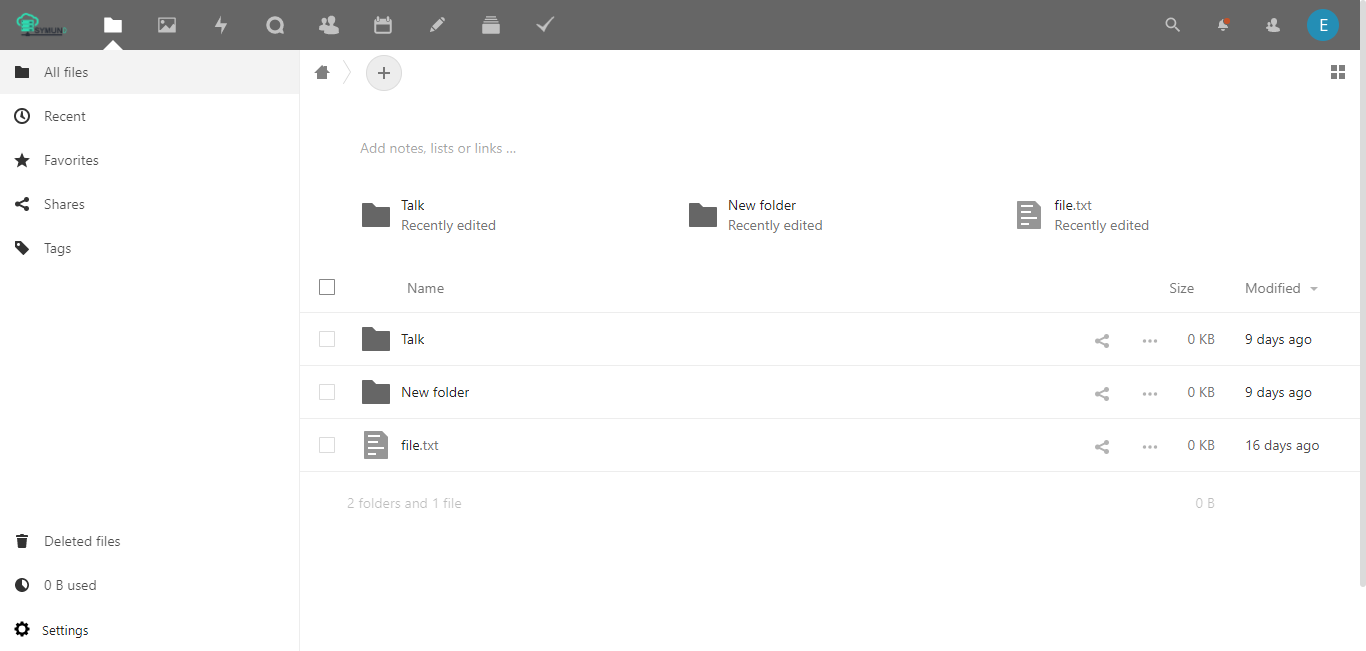
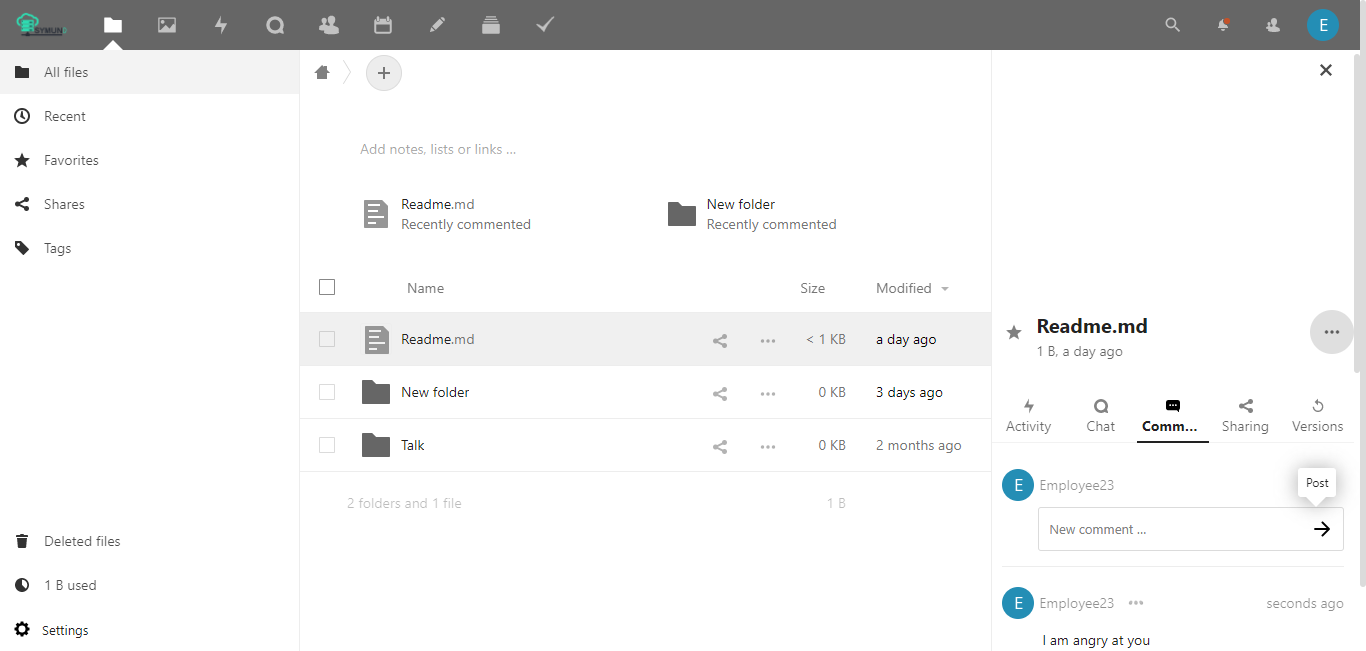
All work is done

diff --git a/target/default-html-reports/report.js b/target/default-html-reports/report.js
@@ -63,7 +63,7 @@ formatter.result({
   "status": "passed"
 });
 formatter.scenario({
-  "name": "A comment box should be displayed",
+  "name": "the user should be able to comment",
   "description": "",
   "keyword": "Scenario",
   "tags": [
@@ -73,41 +73,41 @@ formatter.scenario({
   ]
 });
 formatter.step({
-  "name": "the user clicks dots for comments",
+  "name": "the user enters comment \"I am angry at you\"",
   "keyword": "Given "
 });
 formatter.match({
-  "location": "com.symund.step_definitions.CommentStepDefs.theUserClicksDotsForComments()"
+  "location": "com.symund.step_definitions.CommentStepDefs.theUserEntersComment(java.lang.String)"
 });
 formatter.result({
   "status": "passed"
 });
 formatter.step({
-  "name": "the user clicks Details",
+  "name": "the user clicks comment arrow button",
   "keyword": "And "
 });
 formatter.match({
-  "location": "com.symund.step_definitions.DetailsFileFolder_StepDefs.the_user_clicks_Details()"
+  "location": "com.symund.step_definitions.CommentStepDefs.theUserClicksCommentArrowButton()"
 });
 formatter.result({
   "status": "passed"
 });
 formatter.step({
-  "name": "the user clicks comments",
+  "name": "the user\u0027s username should be seen",
   "keyword": "And "
 });
 formatter.match({
-  "location": "com.symund.step_definitions.CommentStepDefs.theUserClicksComments()"
+  "location": "com.symund.step_definitions.CommentStepDefs.theUserSUsernameShouldBeSeen()"
 });
 formatter.result({
   "status": "passed"
 });
 formatter.step({
-  "name": "the comments box should be displayed",
-  "keyword": "Then "
+  "name": "the box is emptied for new comment",
+  "keyword": "And "
 });
 formatter.match({
-  "location": "com.symund.step_definitions.CommentStepDefs.theCommentsBoxShouldBeDisplayed()"
+  "location": "com.symund.step_definitions.CommentStepDefs.theBoxIsEmptiedForNewComment()"
 });
 formatter.result({
   "status": "passed"
@@ -174,7 +174,7 @@ formatter.result({
   "status": "passed"
 });
 formatter.scenario({
-  "name": "the user should be able to comment",
+  "name": "the user should be edit and delete the comment",
   "description": "",
   "keyword": "Scenario",
   "tags": [
@@ -184,18 +184,38 @@ formatter.scenario({
   ]
 });
 formatter.step({
-  "name": "the user enters comment \"I love you \"",
+  "name": "the user clicks dots next to user name",
   "keyword": "Given "
 });
 formatter.match({
-  "location": "com.symund.step_definitions.CommentStepDefs.theUserEntersComment(java.lang.String)"
+  "location": "com.symund.step_definitions.CommentStepDefs.the_user_clicks_dots_next_to_user_name()"
+});
+formatter.result({
+  "status": "passed"
+});
+formatter.step({
+  "name": "the user clicks Edit comment",
+  "keyword": "And "
+});
+formatter.match({
+  "location": "com.symund.step_definitions.CommentStepDefs.the_user_clicks_Edit_comment()"
+});
+formatter.result({
+  "status": "passed"
+});
+formatter.step({
+  "name": "the user deletes the old comment and writes \"i like you actually\"",
+  "keyword": "And "
+});
+formatter.match({
+  "location": "com.symund.step_definitions.CommentStepDefs.the_user_deletes_the_old_comment_and_writes_new_one(java.lang.String)"
 });
 formatter.result({
   "status": "passed"
 });
 formatter.step({
   "name": "the user clicks comment arrow button",
-  "keyword": "And "
+  "keyword": "Then "
 });
 formatter.match({
   "location": "com.symund.step_definitions.CommentStepDefs.theUserClicksCommentArrowButton()"
@@ -204,21 +224,41 @@ formatter.result({
   "status": "passed"
 });
 formatter.step({
-  "name": "the user\u0027s username should be seen",
-  "keyword": "And "
+  "name": "verify that the comment is edited",
+  "keyword": "Then "
 });
 formatter.match({
-  "location": "com.symund.step_definitions.CommentStepDefs.theUserSUsernameShouldBeSeen()"
+  "location": "com.symund.step_definitions.CommentStepDefs.verify_that_the_comment_is_edited()"
 });
 formatter.result({
   "status": "passed"
 });
 formatter.step({
-  "name": "the box is emptied for new comment",
+  "name": "the user clicks dots next to user name",
+  "keyword": "Then "
+});
+formatter.match({
+  "location": "com.symund.step_definitions.CommentStepDefs.the_user_clicks_dots_next_to_user_name()"
+});
+formatter.result({
+  "status": "passed"
+});
+formatter.step({
+  "name": "the user clicks Delete comment button",
   "keyword": "And "
 });
 formatter.match({
-  "location": "com.symund.step_definitions.CommentStepDefs.theBoxIsEmptiedForNewComment()"
+  "location": "com.symund.step_definitions.CommentStepDefs.the_user_clicks_Delete_comment_button()"
+});
+formatter.result({
+  "status": "passed"
+});
+formatter.step({
+  "name": "verify that the comment is deleted",
+  "keyword": "And "
+});
+formatter.match({
+  "location": "com.symund.step_definitions.CommentStepDefs.verifyThatTheCommentIsDeleted()"
 });
 formatter.result({
   "status": "passed"

diff --git a/src/test/java/com/symund/step_definitions/CommentStepDefs.java b/src/test/java/com/symund/step_definitions/CommentStepDefs.java
@@ -2,14 +2,17 @@ package com.symund.step_definitions;
 
 import com.symund.pages.CommentsPage;
 import com.symund.utilities.BrowserUtils;
+import com.symund.utilities.Driver;
 import io.cucumber.java.en.And;
 import io.cucumber.java.en.Given;
 import io.cucumber.java.en.Then;
-import io.cucumber.java.en.When;
 import org.junit.Assert;
+import org.openqa.selenium.JavascriptExecutor;
 
 public class CommentStepDefs {
-    CommentsPage commentsPage=new CommentsPage();
+    CommentsPage commentsPage = new CommentsPage();
+    public static String commentInput;
+
     @Given("the user clicks dots for comments")
     public void theUserClicksDotsForComments() {
         BrowserUtils.waitFor(2);
@@ -27,8 +30,9 @@ public class CommentStepDefs {
     }
 
     @Given("the user enters comment {string}")
-    public void theUserEntersComment(String String) {
-        commentsPage.CommentBox.sendKeys(String);
+    public void theUserEntersComment(String comment) {
+        commentInput=comment;
+        commentsPage.CommentBox.sendKeys(comment);
     }
 
     @And("the user clicks comment arrow button")
@@ -38,7 +42,7 @@ public class CommentStepDefs {
 
     @And("the user's username should be seen")
     public void theUserSUsernameShouldBeSeen() {
-        Assert.assertEquals(commentsPage.ExpectedUsername.getText(),commentsPage.ActualUsername.getText());
+        Assert.assertEquals(commentsPage.ExpectedUsername.getText(), commentsPage.ActualUsername.getText());
         System.out.println(commentsPage.ExpectedUsername.getText());
         System.out.println(commentsPage.ActualUsername.getText());
 
@@ -48,7 +52,53 @@ public class CommentStepDefs {
 
     @And("the box is emptied for new comment")
     public void theBoxIsEmptiedForNewComment() {
-        String emptyBox= commentsPage.CommentBox.getAttribute("data-placeholder");
+        String emptyBox = commentsPage.CommentBox.getAttribute("data-placeholder");
         System.out.println(emptyBox);
     }
+
+    @Given("the user clicks Edit comment")
+    public void the_user_clicks_Edit_comment() {
+        commentsPage.EditBtn.click();
+    }
+
+    @Given("the user deletes the old comment and writes {string}")
+    public void the_user_deletes_the_old_comment_and_writes_new_one(String newComment) throws InterruptedException {
+        System.out.println(commentsPage.CommentBoxEdit.getText());
+        commentsPage.CommentBoxEdit.clear();
+        commentsPage.CommentBoxEdit.sendKeys(newComment);
+        commentsPage.ArrowBtn1.click();
+        Thread.sleep(4000);
+    }
+
+    @Then("verify that the comment is edited")
+    public void verify_that_the_comment_is_edited() {
+
+        String actualText = commentsPage.newEdited.getAttribute("outerHTML");
+        System.out.println(actualText);
+        String result=actualText.split(">")[1].split("<")[0];
+        System.out.println(result);
+        System.out.println(commentInput);
+        Assert.assertNotEquals(commentInput,result);
+    }
+
+    @Then("the user clicks dots next to user name")
+    public void the_user_clicks_dots_next_to_user_name() {
+        commentsPage.dotsNextToUsername.click();
+
+    }
+
+    @Then("the user clicks Delete comment button")
+    public void the_user_clicks_Delete_comment_button() throws InterruptedException {
+        commentsPage.DeleteBtn.click();
+        Thread.sleep(2000);
+    }
+
+    @And("verify that the comment is deleted")
+    public void verifyThatTheCommentIsDeleted() {
+        String actualText = commentsPage.newEdited.getAttribute("outerHTML");
+        System.out.println(actualText);
+        String result=actualText.split(">")[1].split("<")[0];
+        Assert.assertNotEquals(commentInput,result);
+    }
+
 }

diff --git a/src/test/java/com/symund/pages/CommentsPage.java b/src/test/java/com/symund/pages/CommentsPage.java
@@ -20,4 +20,18 @@ public class CommentsPage {
     public WebElement ActualUsername;
     @FindBy(xpath = "(//div[.='Employee23'])[1]")
     public WebElement ExpectedUsername;
+    @FindBy(xpath = "(//li[@class='comment']//a[@class='action more icon icon-more has-tooltip'])[1]")
+    public WebElement dotsNextToUsername;
+    @FindBy(linkText = "Edit comment")
+    public WebElement EditBtn;
+    @FindBy(linkText = "Delete comment")
+    public WebElement DeleteBtn;
+    @FindBy(xpath = "(//div[@data-placeholder='New comment …'])[2]")
+    public WebElement CommentBoxEdit;
+    @FindBy(xpath = "(//div[@class='message'])[2]")
+    public WebElement EditedMessage;
+    @FindBy(xpath = "(//input[@type='submit'])[3]")
+    public WebElement ArrowBtn1;
+    @FindBy(xpath = "(//ul[@class='comments']//li//div[@class='message'])[1]")
+    public WebElement newEdited;
 }

diff --git a/src/test/java/com/symund/pages/BasePage.java b/src/test/java/com/symund/pages/BasePage.java
@@ -63,7 +63,7 @@ public class BasePage {
     public WebElement download;
 
     @FindBy(linkText = "Delete folder")
-    public WebElement deleteFolder;
+    public WebElement   deleteFolder;
 
     @FindBy(css = "[id='app-navigation']>ul>li>a")
     public List<WebElement> leftNavigationMenuOptions;
